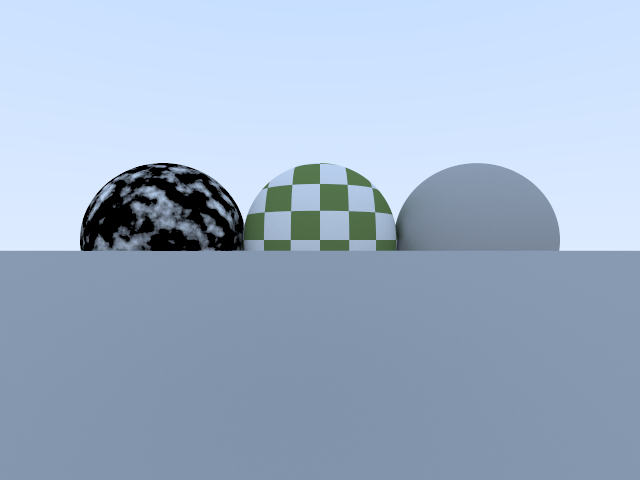
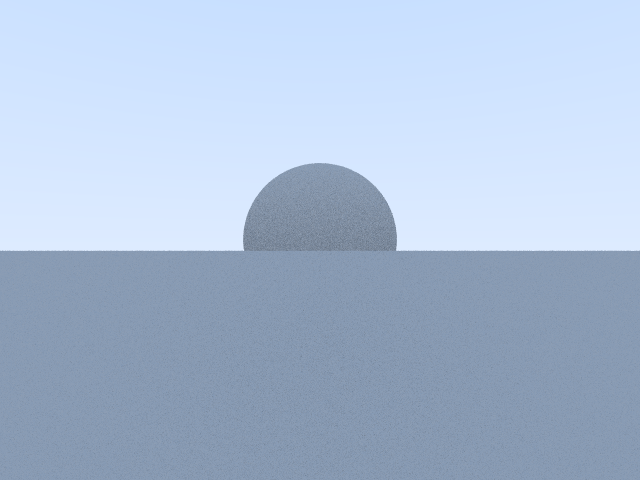
image sampling

Changed region(s): [[0.125, 0.3125, 0.875, 0.5312]]

diff --git a/examples/cpu.rs b/examples/cpu.rs
@@ -20,8 +20,37 @@ use gpu_tracer::{
     write_hdr_buffer_to_file,
 };
 
-use nalgebra_glm::reflect;
 use rand::random;
+
+pub trait ImageSampler {
+    fn sample_1d(&self, image: &ImageTexture, location: Vec2) -> HdrColor;
+    fn sample_2d(&self, image: &ImageTexture, location: Vec2) -> HdrColor;
+    fn sample_3d(&self, image: &ImageTexture, location: Vec2) -> HdrColor;
+}
+
+pub struct NearestNeighborSampler {}
+
+impl ImageSampler for NearestNeighborSampler {
+    fn sample_1d(&self, image: &ImageTexture, location: Vec2) -> HdrColor {
+        let x = (location.x * image.image.width() as f32) as u32;
+        let pixel = image.image.get_pixel(x, 0);
+        HdrColor::new(pixel[0], pixel[1], pixel[2], pixel[3])
+    }
+
+    fn sample_2d(&self, image: &ImageTexture, location: Vec2) -> HdrColor {
+        let x = (location.x * image.width() as f32) as u32;
+        let y = (location.y * image.height() as f32) as u32;
+        let pixel = image.image.get_pixel(x, y);
+        HdrColor::new(pixel[0], pixel[1], pixel[2], pixel[3])
+    }
+
+    fn sample_3d(&self, image: &ImageTexture, location: Vec2) -> HdrColor {
+        let x = (location.x * image.width() as f32) as u32;
+        let y = (location.y * image.height() as f32) as u32;
+        let pixel = image.image.get_pixel(x, y);
+        HdrColor::new(pixel[0], pixel[1], pixel[2], pixel[3])
+    }
+}
 
 pub trait Texture {
     fn sample(&self, attributes: &SurfaceAttributes) -> HdrColor;
@@ -93,6 +122,23 @@ impl<NoiseGenerator: noise::NoiseFn<f64, 3>> Texture for NoiseTexture<NoiseGener
     }
 }
 
+pub struct ImageTexture {
+    pub image: image::Rgba32FImage,
+}
+
+impl ImageTexture {
+    pub fn new(image: image::Rgba32FImage) -> Self {
+        Self { image }
+    }
+
+    pub fn width(&self) -> u32 {
+        self.image.width()
+    }
+
+    pub fn height(&self) -> u32 {
+        self.image.height()
+    }
+}
 pub trait Material {
     fn scatter(&self, sampler: &dyn Sampler, attributes: &SurfaceAttributes) -> Direction;
     fn bsdf(&self, attributes: &SurfaceAttributes, direction: &Direction) -> HdrColor;
@@ -564,26 +610,20 @@ fn main() {
     scene.set_material(floor_instance, solid_color_material);
 
     let sphere = scene.add_shape(Rc::new(SphereShape::new(1.0)));
-    let sphere2 = scene.add_shape(Rc::new(SphereShape::new(100.0)));
-    let sphere_instance =
-        scene.create_instance(sphere, nalgebra_glm::translation(&Vec3::new(2.0, 0.0, 0.0)));
-
     let sphere_instance =
         scene.create_instance(sphere, nalgebra_glm::translation(&Vec3::new(0.0, 0.0, 0.0)));
 
-    scene.set_material(sphere_instance, checker_material);
+    // let sphere_instance =
+    //     scene.create_instance(sphere, nalgebra_glm::translation(&Vec3::new(2.0, 0.0, 2.0)));
 
-    let sphere_instance = scene.create_instance(
-        sphere,
-        nalgebra_glm::translation(&Vec3::new(-2.0, 0.0, 0.0)),
-    );
-
-    scene.set_material(sphere_instance, noise_material);
+    // scene.set_material(sphere_instance, checker_material);
 
     // let sphere_instance = scene.create_instance(
-    //     sphere2,
-    //     nalgebra_glm::translation(&Vec3::new(0.0, -101.0, 0.0)),
+    //     sphere,
+    //     nalgebra_glm::translation(&Vec3::new(-2.0, 0.0, 0.0)),
     // );
+
+    // scene.set_material(sphere_instance, noise_material);
 
     let width = 640;
     let height = 480;
@@ -601,7 +641,7 @@ fn main() {
 
     let mut result_buffer = vec![Payload::default(); (width * height) as usize];
     let ctx = Ctx {
-        spp: 1024,
+        spp: 16,
         camera,
         sampler: Box::new(RandomSampler {}),
         scene,

diff --git a/src/cpu/top_level_acceleration_structure.rs b/src/cpu/top_level_acceleration_structure.rs
@@ -164,7 +164,7 @@ impl TopLevelAccelerationStructure {
         let mut stack_ptr = 0;
         let mut stack = [0; 64];
         let mut d = f32::MAX;
-        let mut record = None;
+        let mut hits = Vec::new();
         loop {
             let node = &self.nodes[node_idx];
             if self.nodes[node_idx].primitive_count > 0 {
@@ -175,12 +175,12 @@ impl TopLevelAccelerationStructure {
                     let instance = &self.instances[i];
                     let transform = &instance.transform;
                     if let Some(mut hit_record) =
-                        instance.blas.intersect(ray, ray_type, transform, d)
+                        instance.blas.intersect(ray, ray_type, transform, f32::MAX)
                     {
                         hit_record.object_id = instance.id;
                         d = hit_record.t;
                         hit_record.obj_to_world = *transform;
-                        record = Some(hit_record);
+                        hits.push(hit_record);
                     }
                 }
 
@@ -228,6 +228,13 @@ impl TopLevelAccelerationStructure {
             }
         }
 
+        if hits.len() == 2 && hits[0].t > hits[1].t {
+            print!("")
+        }
+
+        let record = hits
+            .into_iter()
+            .min_by(|a, b| a.t.partial_cmp(&b.t).unwrap());
         if let Some(record) = record {
             match ray_type {
                 RayType::Primary => {

diff --git a/src/cpu/bvh.rs b/src/cpu/bvh.rs
@@ -300,7 +300,7 @@ impl BottomLevelAccelerationStructure {
         let mut stack = [0; 64];
         let inv_ray = ray.transformed(&transform.try_inverse().unwrap());
         let mut hit_record = None;
-        let mut d = t_max;
+        let mut d = f32::MAX;
         loop {
             let node = &self.nodes[node_idx];
             if self.nodes[node_idx].primitive_count > 0 {
@@ -335,9 +335,6 @@ impl BottomLevelAccelerationStructure {
                             primitive_id: triangle as _,
                             ..Default::default()
                         });
-                        if let RayType::Shadow = ray_type {
-                            break;
-                        }
                     }
                 }
                 if stack_ptr == 0 {
